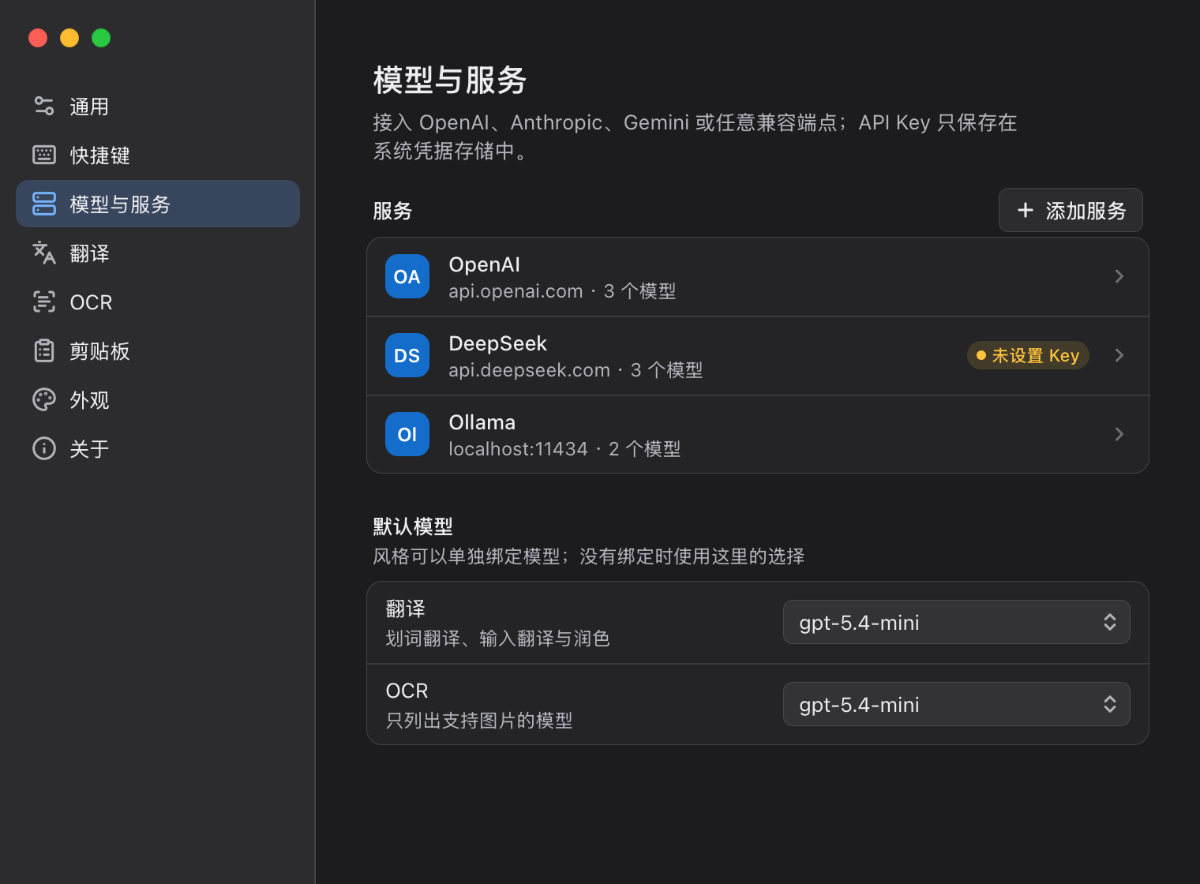
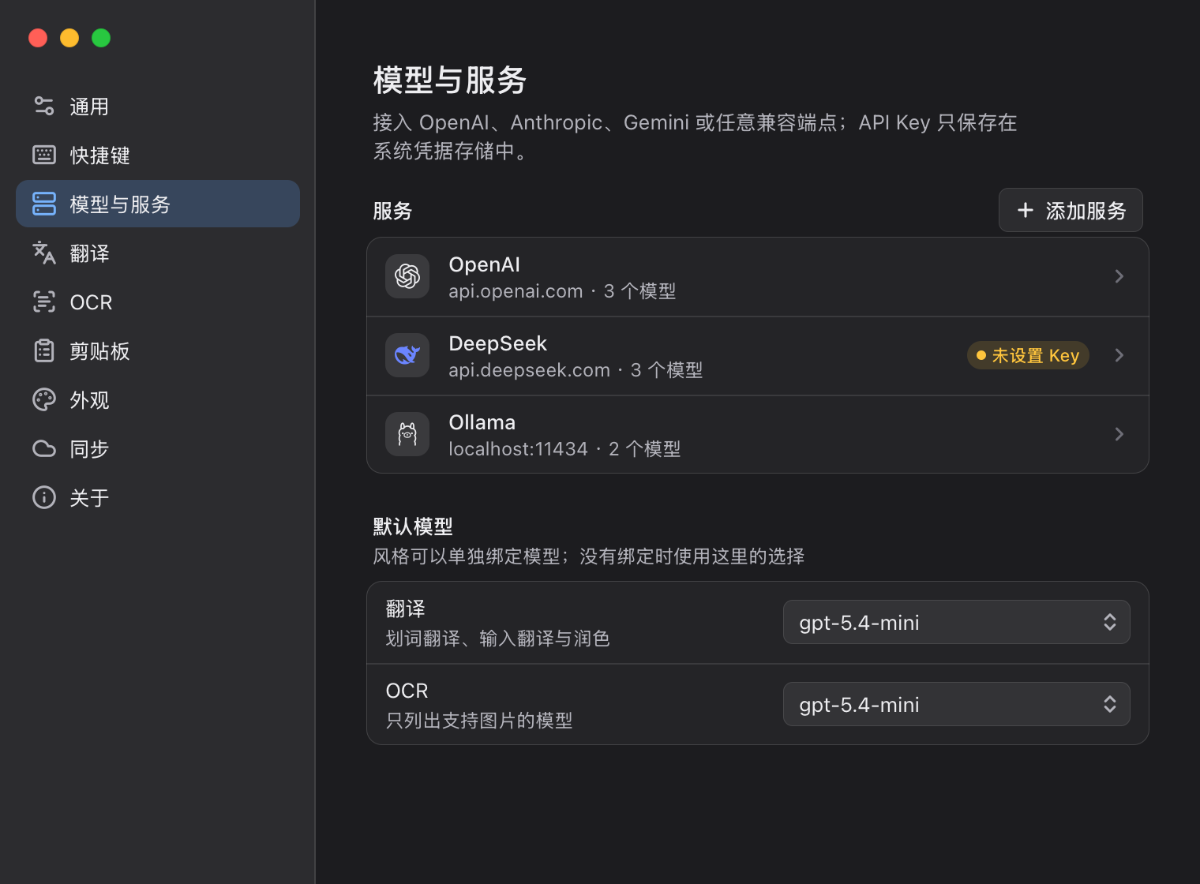
docs: bring docs and screenshots in line with sync and the clipboard update
- README: list the clipboard limits (paste in sequence and the floating
  clipboard need X11 on Linux; only text, links and rich text can be
  dragged out for now; cautious verification-code detection) and add
  dragging images and files to the roadmap.
- Regenerate the clipboard and model-services screenshots.
- AGENTS.md: sync in the overview, floating/ and sync_svc/ in the
  layout, sync credentials in the privacy rule, and how the WebDAV
  tests get an account.
- Development guide: describe the two-device end-to-end sync test.
- Docs index: sync and the new clipboard features, plus new terms.
- Icons README: state that the per-size tray images are not selected
  by DPI yet.

diff --git a/AGENTS.md b/AGENTS.md
@@ -4,11 +4,11 @@
 
 ## 项目
 
-Wisp 是常驻后台的轻量桌面工具：划词翻译、截图 OCR、剪贴板历史。Tauri 2（Rust）+ React 19 + Motion + Tailwind CSS 4，支持 macOS（Apple Silicon）、Windows（x64）、Linux（x64，完整功能需要 X11）。所有 AI 能力都通过用户自己配置的模型服务完成。
+Wisp 是常驻后台的轻量桌面工具：划词翻译、截图 OCR、剪贴板历史，可经用户自己的 WebDAV 在多台设备之间端到端加密同步。Tauri 2（Rust）+ React 19 + Motion + Tailwind CSS 4，支持 macOS（Apple Silicon）、Windows（x64）、Linux（x64，完整功能需要 X11）。所有 AI 能力都通过用户自己配置的模型服务完成。
 
 ```text
-apps/desktop/src/          前端：entries/（五个页面入口）、panel/、views/、settings/、onboarding/、pinned/、overlay/、shared/、locales/
-apps/desktop/src-tauri/    Rust 应用（wisp-desktop）：app/、orchestrator/、windows/、hotkeys/、clipboard_svc/、settings/、ipc/、tray/、updater/
+apps/desktop/src/          前端：entries/（五个页面入口）、panel/、views/、settings/、onboarding/、pinned/、floating/（悬浮剪贴板）、overlay/、shared/、locales/
+apps/desktop/src-tauri/    Rust 应用（wisp-desktop）：app/、orchestrator/、windows/、hotkeys/、clipboard_svc/、settings/、sync_svc/、ipc/、tray/、updater/
 crates/wisp-types          跨 crate / IPC / 持久化的共享类型
 crates/wisp-llm            四种协议的流式 LLM 客户端
 crates/wisp-prompts        提示词模板（templates/）、风格、语言检测、后处理
@@ -48,7 +48,7 @@ pnpm i18n:check && pnpm check:contract && pnpm check:size
 - **类型同步**：改 `crates/wisp-types` 时同步 `apps/desktop/src/shared/ipc/types.ts`，并重新生成 `shared/ipc/fixtures/`（不要手改生成的文件）。
 - **前端**：`@tauri-apps/*` 只能在 `apps/desktop/src/shared/ipc/` 里引用；动效时长与曲线只用 `shared/motion/` 的令牌或 `--dur-*` / `--ease-*`；颜色只用设计令牌；覆盖层（`overlay/`）是原生 TS，不引入 React / Motion。
 - **文案**：用户可见的字符串一律经 i18n，`zh-CN` 与 `en-US` 两份 locales 同时添加；Rust 显示的托盘 / 通知文案在 `src-tauri/src/app/i18n.rs`。
-- **隐私**：不得把原文、译文、剪贴板内容、截图、API Key、请求头的值或 URL 查询参数写进日志、错误信息或诊断包。API Key 只能由 Rust 读取，不提供把 Key 返回前端的接口。
+- **隐私**：不得把原文、译文、剪贴板内容（包括识别出的片段与变换结果）、截图、API Key、请求头的值、URL 查询参数，以及同步服务器的地址、账号、密码、同步密码、远端路径与设备名写进日志、错误信息或诊断包。API Key 与同步凭据只能由 Rust 读取，不提供返回前端的接口。
 - **性能**：不引入常驻的周期定时器或轮询；新资源（连接、线程、钩子）按需创建、用完释放。面板首屏的五个视图保持静态导入；`pnpm check:size` 检查体积与入口依赖图。
 - **Rust 细节**：`unsafe` 前写 `// SAFETY:`；错误类型用 `thiserror`；可能阻塞的系统调用放进 `spawn_blocking` 或工作线程并设超时。
 - **依赖**：不随意新增依赖；需要时锁定精确版本，并运行 `pnpm run licenses`。
@@ -59,6 +59,7 @@ pnpm i18n:check && pnpm check:contract && pnpm check:size
 - Rust 单元测试写在模块内 `#[cfg(test)]`，集成测试放 crate 的 `tests/`；需要系统权限或真实 GUI 的测试标 `#[ignore = "原因"]`。
 - 前端测试放在被测代码旁的 `__tests__/`（Vitest），浏览器级用例放在 `__e2e__/`（Playwright）。
 - `wisp-llm` 的协议测试使用录制的 SSE 样本，不需要真实 Key；不要在测试或示例里写入真实的 Key。
+- `wisp-sync` 的测试用内存远端与 wiremock，不需要真实账号；对真实 WebDAV 的测试标 `#[ignore]`，只从 `WISP_SYNC_TEST_URL` / `WISP_SYNC_TEST_USER` / `WISP_SYNC_TEST_PASS` 读取账号（见 docs/development.md），不要把真实的地址与账号写进仓库。
 
 ## 提交
 

diff --git a/docs/README.md b/docs/README.md
@@ -5,7 +5,7 @@
 | 文档 | 内容 |
 | --- | --- |
 | [README](../README.md)（[English](../README.en.md)） | 功能概览、三端安装、接入模型、默认快捷键、隐私、已知限制、反馈方式 |
-| [使用说明](user-guide.md) | 三大场景的操作、翻译风格、OCR 模式、剪贴板、快捷键速查、全部设置项、文件位置、常见问题与排错、诊断导出 |
+| [使用说明](user-guide.md) | 三大场景的操作、翻译风格、OCR 模式、剪贴板（收藏、智能识别、粘贴为、连续粘贴、悬浮剪贴板）、多设备同步与同步的隐私、快捷键速查、全部设置项、文件位置、常见问题与排错、诊断导出 |
 | [模型服务](providers.md) | 四种协议、Base URL 规则、服务模板、识图能力判定、「思考」参数、错误提示、各服务的注意事项 |
 | [更新日志](../CHANGELOG.md) | 每个版本面向用户的变更 |
 
@@ -15,7 +15,7 @@
 | --- | --- |
 | [CONTRIBUTING](../CONTRIBUTING.md)（[English](../CONTRIBUTING.en.md)） | 如何提 issue 与 PR、代码风格、提交信息、测试要求 |
 | [开发指南](development.md) | 环境要求、构建与运行、测试与检查命令、调试与开发者工具、目录约定、CI、性能测量、发布流程、更新器密钥 |
-| [架构](architecture.md) | 进程与模块结构、各 crate 的职责、IPC、窗口体系、平台层、数据与配置、安全、性能设计 |
+| [架构](architecture.md) | 进程与模块结构、各 crate 的职责、IPC、窗口体系、平台层、多设备同步、数据与配置、安全、性能设计 |
 | [性能脚本](../scripts/perf/README.md) | 空闲采样、冒烟、性能记录格式、门禁与基线、面板回收对照 |
 | [第三方补丁](../vendor/README.md) | `vendor/` 下各 crate 的补丁内容、原因与升级时的处理 |
 | [提示词模板](../crates/wisp-prompts/templates/README.md) | 模板文件的格式约定与命名 |
@@ -34,7 +34,11 @@
 | 面板（Panel） | 靠近光标或选区出现的浮动小窗口，翻译结果、OCR 结果、剪贴板列表、输入框共用 |
 | 覆盖层（Overlay） | 截图框选时覆盖整个屏幕的透明全屏窗口，每个显示器一个 |
 | 固定窗口（Pinned） | 把面板里的结果「固定」出来的可拖动独立窗口 |
+| 悬浮剪贴板 | 剪贴板视图变成的单例小窗口，默认置顶，点条目直接粘贴进当前应用而不抢焦点 |
+| 收藏 | 剪贴板里不会被自动清理、可以命名并按名称搜索的条目（旧版本称「置顶」） |
+| 智能识别 | 在条目文字里认出电话、邮箱、链接、验证码、单号、金额等，以芯片形式单独粘贴 |
 | 风格（Style） | 翻译时使用的一组提示词与参数，例如「技术」「口语」 |
 | 服务（Provider） | 一个模型服务接入点：协议 + Base URL + API Key + 模型列表 |
 | 扩展触发 | 快捷键之外的可选触发方式：选中文字后的浮标、双击修饰键、鼠标中键 / 侧键 |
+| 同步数据 | 存放在你自己的 WebDAV 存储里、用同步密码加密的设置与使用记录；每台设备只写自己的文件 |
 | 帧模式 | 面板窗口与卡片的关系：Native（macOS，窗口即卡片）与 Css（Windows / Linux，透明窗口内由 CSS 画卡片） |

diff --git a/README.en.md b/README.en.md
@@ -245,6 +245,7 @@ Common keys inside the panel: <kbd>Esc</kbd> closes it, <kbd>⌘ C</kbd> copies,
 - **Shortcuts**: once <kbd>⌥</kbd> + a letter is a shortcut, the special character it used to type (such as ∂, ß, or √) can no longer be typed in any app. If Terminal or iTerm2 uses Option as Meta, you lose combinations such as `M-d`; consider the alternative shortcuts. Shortcuts may not fire while Secure Input is active, for example in password fields.
 - **Reading the selection**: a few apps don't expose the selected text through the accessibility APIs. Wisp then simulates a copy and restores your clipboard afterwards. On Windows, windows running as administrator can't be read or pasted into automatically.
 - **Sync**: only WebDAV is supported (HTTP Basic authentication; https is required except for local network addresses). Wisp doesn't sync on a timer in the background, so changes made on another device are picked up only when you use Wisp. File items on the clipboard and images larger than 10 MB are not synced. The sync password can't be changed directly and can't be recovered if forgotten: the only way out is to clear the data on the server and connect again (the data on each device is not affected).
+- **Clipboard**: paste in sequence and the floating clipboard rely on global keys and window focus, so they don't work in Linux Wayland sessions (there the floating clipboard can only copy, not paste). Dragging out currently supports text, links, and rich text; images and files can't be dragged into other apps yet. Verification-code detection is deliberately cautious: a message without an explicit word such as "verification code" and without an expiry or "don't share" hint isn't treated as a code.
 - **Memory**: for a few dozen seconds after the panel is used, the system WebView holds extra memory (on macOS about 84 MiB, peaking around 90 MiB, until the panel is recycled about 45 seconds after it hides). After recycling it uses about 53–54 MiB (about 49 MiB if the panel was never opened). The main process uses about 13 MiB if the panel was never opened and about 15 MiB afterwards. WebView2 on Windows usually uses more memory than WebKit on macOS.
 
 ## Non-goals
@@ -268,7 +269,7 @@ Planned directions (not implemented yet, with no entry points in the UI):
 - more service templates; a local OCR engine as an offline fallback (not the main path);
 - more thorough Linux testing, plus global shortcuts and screenshots on Wayland through the GlobalShortcuts and Screenshot portals;
 - macOS Developer ID signing and notarization, Windows code signing; distribution through Homebrew Cask, winget, and the AUR;
-- clipboard database encryption and searching clipboard images by the text they contain.
+- clipboard database encryption, searching clipboard images by the text they contain, and dragging clipboard images and files straight into other apps.
 
 Reading translations aloud (text-to-speech) is one of the non-goals above. Whether it is ever added as a small feature will be evaluated separately.
 

diff --git a/docs/development.md b/docs/development.md
@@ -112,7 +112,7 @@ node scripts/bump.mjs --check   # 各处版本号一致
 | 发布脚本、`cliff.toml`、`CHANGELOG.md` | `node scripts/release/self-test.mjs` |
 | GitHub 工作流或 shell 脚本 | `actionlint`、`shellcheck` |
 | 假模型、提示词评测 | `cargo test -p wisp-llm --features fake --locked`、`cargo test -p wisp-prompts --features eval --locked` |
-| 多设备同步（`crates/wisp-sync`） | `cargo test -p wisp-sync --locked`：加解密与篡改检测、投影往返、合并性质（proptest）、多设备收敛模拟（内存远端）与 WebDAV 客户端（wiremock），都不需要真实账号。对真实服务器的冒烟测试默认忽略：`WISP_SYNC_TEST_URL=https://… WISP_SYNC_TEST_USER=… WISP_SYNC_TEST_PASS=… cargo test -p wisp-sync --locked --test live_webdav -- --ignored`，只在地址下 `wisp/` 里的随机子目录中读写并在结束时删除。不要把真实的地址与账号写进仓库 |
+| 多设备同步（`crates/wisp-sync`） | `cargo test -p wisp-sync --locked`：加解密与篡改检测、投影往返、合并性质（proptest）、多设备收敛模拟（内存远端）与 WebDAV 客户端（wiremock），都不需要真实账号。对真实服务器的测试默认忽略，用环境变量提供账号：`WISP_SYNC_TEST_URL=https://… WISP_SYNC_TEST_USER=… WISP_SYNC_TEST_PASS=… cargo test -p wisp-sync --locked --test live_webdav --test live_engine -- --ignored`。`live_webdav` 是传输层冒烟，只在地址下 `wisp/` 里的随机子目录中读写；`live_engine` 让两台模拟设备经真实服务器走完连接、加入、同步、删除与清空、清除服务器数据，在地址下单独的 `e2e-<随机 id>/` 目录里进行，不碰真实的同步数据。两者结束时（包括失败时）都会删除自己建的目录。不要把真实的地址与账号写进仓库 |
 | 界面交互（焦点、键盘、逐帧布局） | 浏览器级用例：`pnpm -C apps/desktop exec playwright install webkit chromium`（第一次），然后 `pnpm -C apps/desktop exec playwright test`（配置在 `apps/desktop/playwright.config.ts`，运行 `src/**/__e2e__/*.e2e.ts`） |
 | Linux 平台层 | `xvfb-run -a cargo test -p wisp-platform --test smoke_linux -- --ignored --test-threads=1`（需要 `bash scripts/ci/linux-deps.sh smoke` 安装的依赖） |
 

diff --git a/apps/desktop/src-tauri/icons/README.md b/apps/desktop/src-tauri/icons/README.md
@@ -53,11 +53,11 @@
 | `tray/tray-template-paused.png` / `-attention.png` | macOS，监听暂停 / 权限缺失（同为模板图） |
 | `tray/tray-light.png` / `-paused` / `-attention` | Windows / Linux 浅色任务栏（32 px） |
 | `tray/tray-dark.png` / `-paused` / `-attention` | Windows / Linux 深色任务栏、Linux 默认（32 px） |
-| `tray/tray-{light,dark}{,-paused,-attention}-{16,20,24,40,48}.png` | 同上，按托盘图标的实际像素尺寸选用 |
+| `tray/tray-{light,dark}{,-paused,-attention}-{16,20,24,40,48}.png` | 同上的各尺寸版本，为按 DPI 选图准备；`icon.rs` 目前还没有引用它们 |
 
 状态图标在托盘状态变化时切换（`TrayIcon::set_icon`），文件名与上表一致。
 
-**Windows 按 DPI 选尺寸**：通知区域图标是 `SM_CXSMICON` 大小——100 % 缩放 16 px、125 % 20 px、150 % 24 px、
+**按 DPI 选尺寸（尚未接入）**：目前 Windows / Linux 只加载 32 px 的无后缀文件，由系统缩放到托盘的实际尺寸。以后接入时的规则：Windows 通知区域图标是 `SM_CXSMICON` 大小——100 % 缩放 16 px、125 % 20 px、150 % 24 px、
 200 % 32 px（无后缀的文件）、250 % 40 px、300 % 48 px。给系统一张恰好等大的图，它就不会再重采样；介于两档之间
 （例如 175 % = 28 px）时取**较大**的一档交给系统缩小。缩放变化（`WM_DPICHANGED` / 换显示器）时重新选一次。
 Linux 的 StatusNotifierItem 由宿主按需缩放，32 px 即可；也可以按面板报告的尺寸选用。
